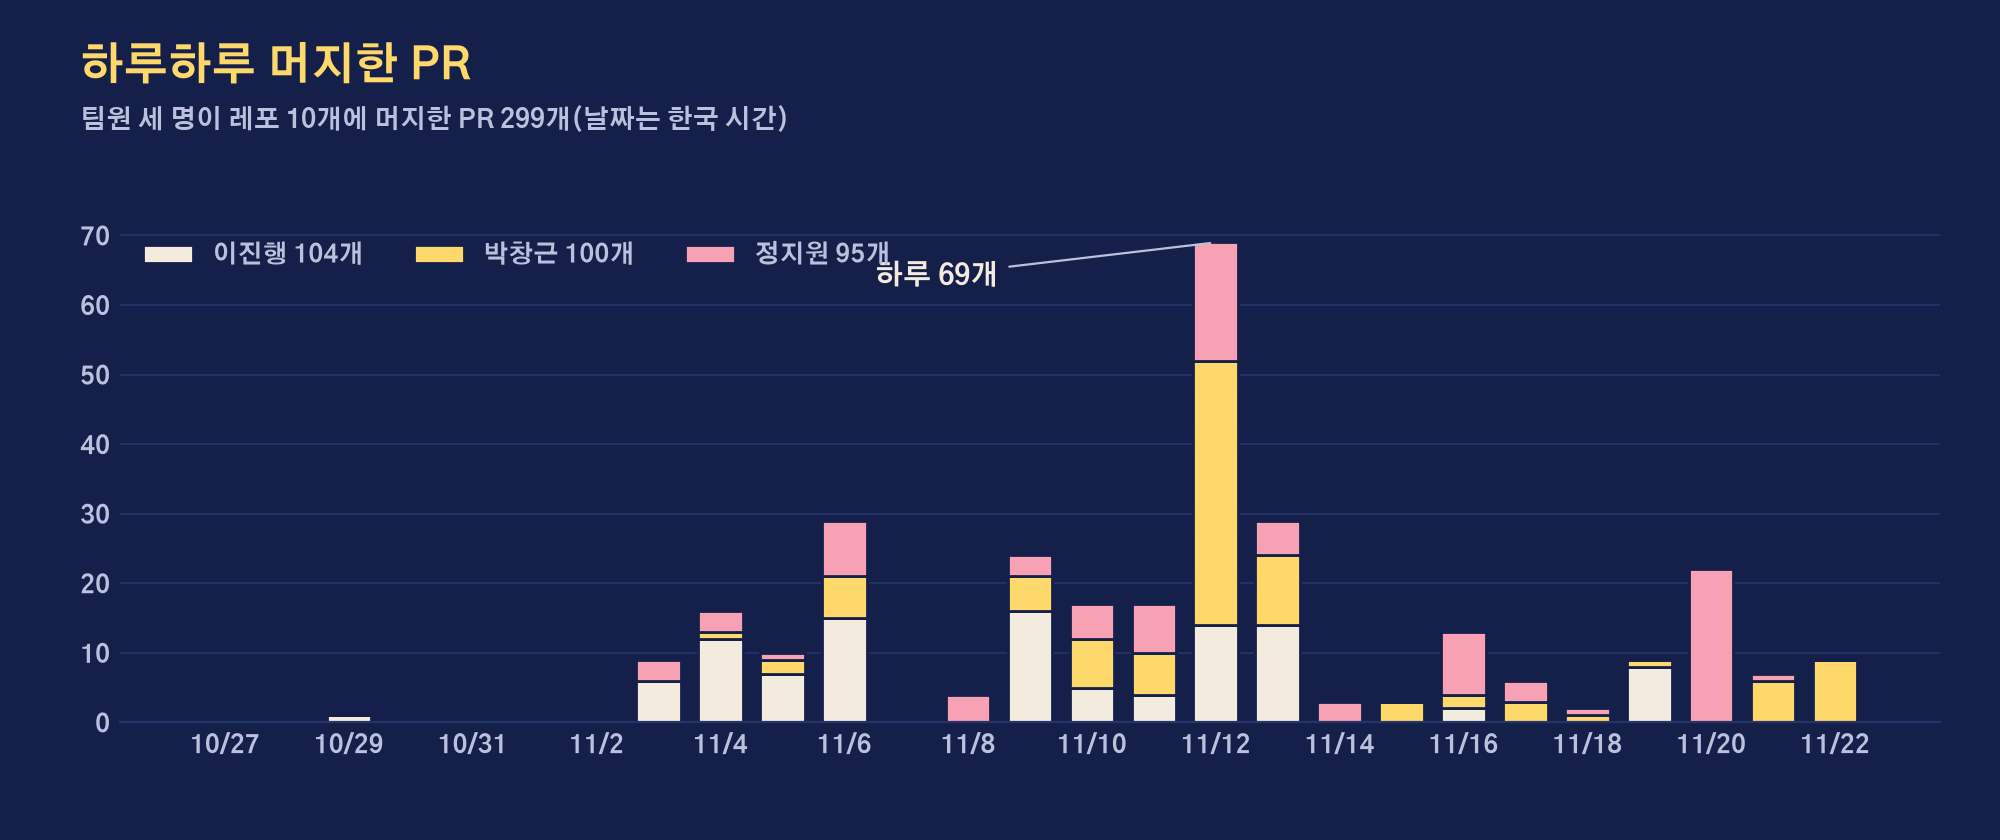
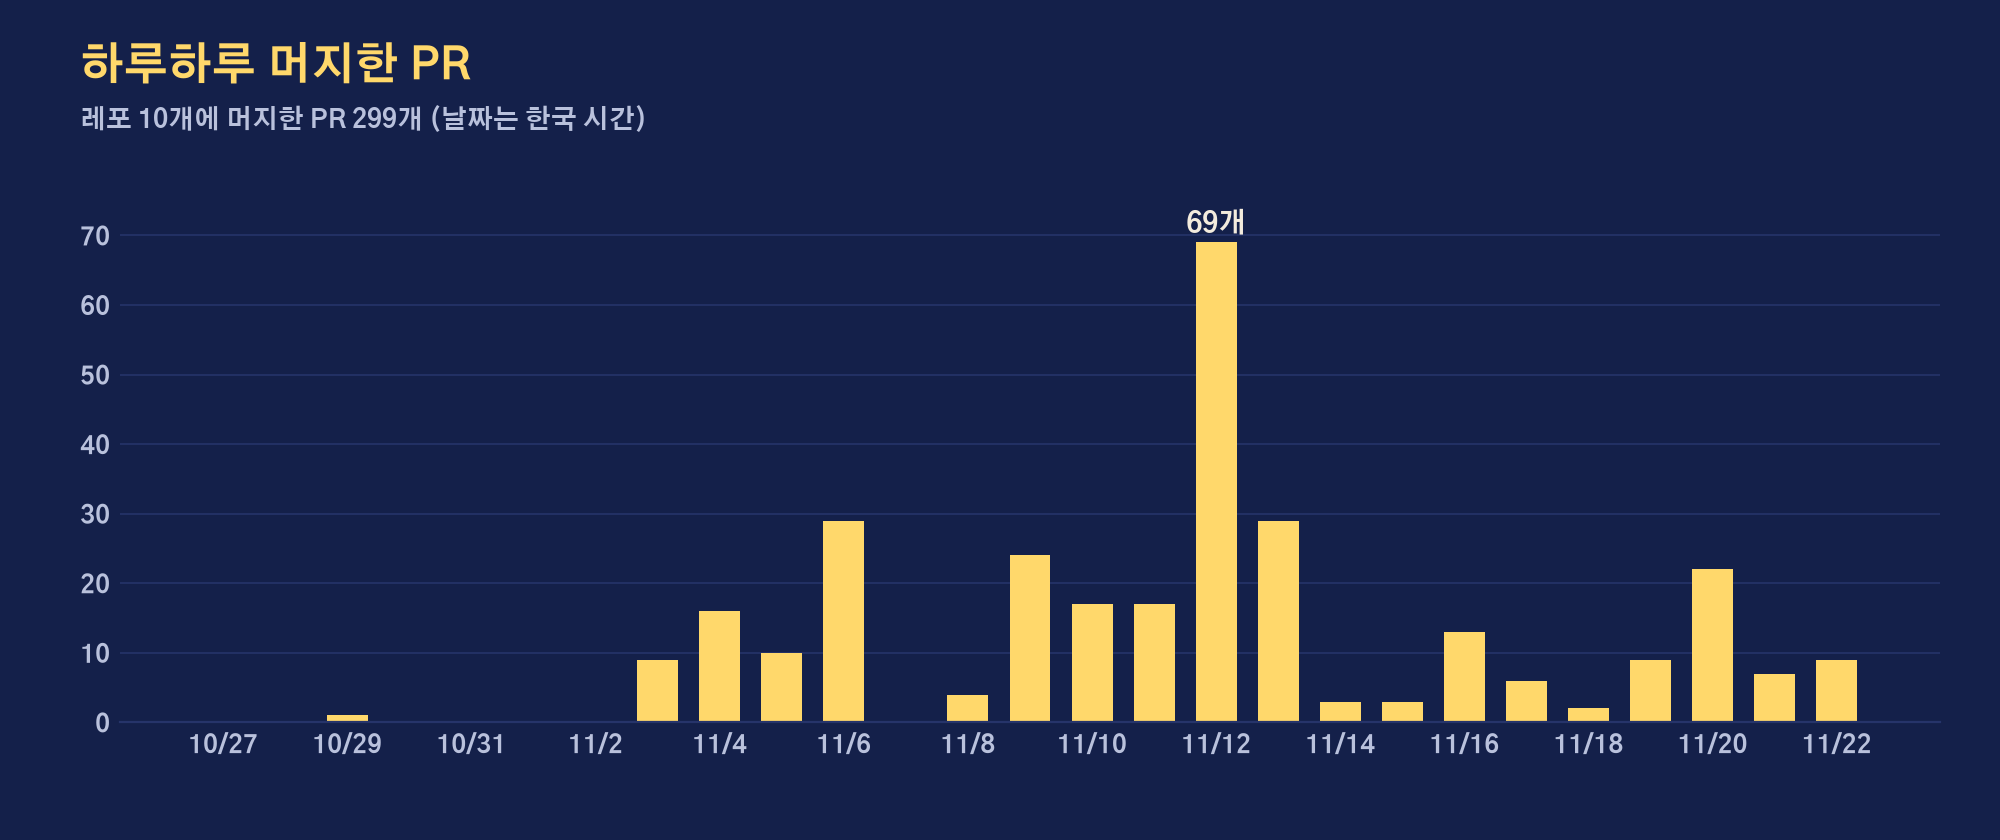
README: 사람별 PR 표 대신 파트별 모델 학습 시간·횟수 보여 주기

diff --git a/profile/README.md b/profile/README.md
@@ -6,7 +6,7 @@
   <p>📅 <b>개발 기간</b> : 2026.10.27 ~ 2026.11.20 &nbsp;·&nbsp; 👥 <b>팀 심청이</b></p>
 </div>
 
-<p align="center"><img src="https://raw.githubusercontent.com/fashion-agent-team/.github/main/profile/images/charts/1122-effort-hero.png" width="100%" alt="27일 동안 머지한 PR 299개, 커밋 811개, 브랜치 263개, 비교한 모델·방식 109개, 옷 모델 학습 65시간 이상, 테스트 578개"/></p>
+<p align="center"><img src="https://raw.githubusercontent.com/fashion-agent-team/.github/main/profile/images/charts/1122-effort-hero.png" width="100%" alt="27일 동안 젯슨 GPU 모델 학습 166시간 이상, 눈 화장 반복 학습 396판, 비교한 모델·방식 109가지, 머지한 PR 299개, 커밋 811개, 테스트 578개"/></p>
 
 ## 👥 누가 무엇을 했나요
 
@@ -450,6 +450,7 @@ flowchart LR
   <tr><td>옷 색</td><td>픽셀 규칙, 색 히스토그램 + MLP, 작은 CNN</td><td><b>작은 CNN(0.8MB)</b>: 색 계열 76.8%, 흰 옷 15% → 87%. 옷 모양을 봐서 배경색에 덜 속아요</td></tr>
   <tr><td>무늬</td><td>YOLO 분류, FashionSigLIP LoRA·분류 층만·입력 384, GPT low/high</td><td><b>LoRA + YOLO 섞기 + 애매할 때만 GPT</b>: 입은 옷 90.0%로 목표 달성</td></tr>
   <tr><td>얼굴 분할</td><td>BiSeNet R18 두 학습본·R34, SegFormer, FaRL, MediaPipe</td><td><b>BiSeNet ResNet34</b>: 유일하게 통계적으로 나아졌어요(p=0.019). SegFormer는 3.6배 크고 느리고, FaRL은 646MB라 탈락</td></tr>
+  <tr><td>눈 화장 좌우 비교</td><td>밝기 규칙, 작은 CNN, 넓은 망, ImageNet ResNet18·EfficientNet·ConvNeXt 등 젯슨 GPU로 <b>396판</b></td><td><b>서버 모델 + ResNet18 3개 앙상블</b>: 실사진 검출 70.7% → 78.6%, 잘못 알림 4.1%. 같은 평가 사진에서 조합을 뒤지면 점수가 부풀어서, 미리 정한 규칙(하나씩 점수 상위 3개)으로 골랐어요</td></tr>
   <tr><td>치아</td><td>모델 4, 이어 학습 3, LoRA 4, 색 규칙 4, GPT</td><td><b>직접 학습한 v4 + 6번 평균</b>: 깨끗한 이 잘못 알림 1.1%. 얼굴·치아 사진은 GPT로 보내지 않기로 해서 GPT는 탈락</td></tr>
   <tr><td>날씨 데이터</td><td>Open-Meteo, 기상청 단기예보, OpenWeatherMap (5개 도시 × 3번)</td><td><b>Open-Meteo</b>: 응답 0.9초(기상청 3.5초, 가장 느릴 때 15초)에 키 없이 써요. 안 되면 MET Norway로 넘어가요</td></tr>
 </table>
@@ -472,6 +473,7 @@ flowchart LR
 | 옷 색 | 3가지 방식 | 색 계열 45.3% → **76.8%** |
 | 입은 옷 실수(택·단추·뒤집힘) | 단추 모델 6판 (실제 사진으로 이어 학습) | 단추 79.7% → **93.7%** |
 | 화장 좌우 비교 | 약 35가지 방식 | 눈썹 길이 22% → **84%**, 멀쩡한 사진 잘못 알림 63% → **31%** |
+| 눈 화장 | 젯슨 GPU 396판 | 실사진 검출 약 10% → 50% → 61% → 72% → **78.6%** |
 | 치아 이물질 | v1 → v4, LoRA·이어 학습 7가지 | 합성 시험 87.2% → **91.2%**, 고춧가루 실사진 0.03 → **0.96** |
 
 자세한 표: [clothes-state 실험 비교표](https://github.com/fashion-agent-team/mcp-clothes-state/blob/develop/docs/lab.md) · [학습 기록](https://github.com/fashion-agent-team/mcp-clothes-state/blob/develop/docs/training-log.md) · [face-check 실험 비교표](https://github.com/fashion-agent-team/mcp-face-check/blob/develop/docs/lab.md)
@@ -489,16 +491,21 @@ flowchart LR
 
 ## 🔥 27일 동안 남긴 흔적
 
-> 기능 하나도 바로 `develop`에 넣지 않고 **브랜치 → PR → CI 테스트 → 리뷰 → 머지**를 거쳤어요. 그렇게 쌓인 PR이 299개예요.
+> 가장 오래 걸린 일은 **모델 학습**이었어요. 화장·옷장·날씨는 박창근, 옷 상태·치아는 정지원 파트에서 모델을 학습하고 비교했고, 앱 뼈대·gateway·agent는 이진행 파트에서 만들었어요.
 
-<p align="center"><img src="https://raw.githubusercontent.com/fashion-agent-team/.github/main/profile/images/charts/1122-effort-daily.png" width="100%" alt="날짜별로 팀원 세 명이 머지한 PR 수 누적 막대그래프"/></p>
+<p align="center"><img src="https://raw.githubusercontent.com/fashion-agent-team/.github/main/profile/images/charts/1122-effort-training.png" width="100%" alt="모델 학습에 들인 시간: 눈 화장 좌우 비교 101.6시간(젯슨 GPU, 396판), 옷 상태 모델 65시간, 얼굴 분할·좌우 비교 CNN 3.5시간, 치아 1.8시간"/></p>
+
+| 파트 | 모델 학습 시간 | 학습·비교한 횟수 |
+| --- | ---: | --- |
+| 박창근 파트 (화장·옷장·날씨) | **105시간 이상** | 눈 화장 젯슨 학습 **396판**, 화장 재는 방식 약 35가지, 같은 옷 찾기 사진 모델 12개, 날씨 출처 3개 |
+| 정지원 파트 (옷 상태·치아) | **66시간 이상** | 옷 상태 실험 **56가지**(얼룩·찢어짐 7판, 옷 종류 6판, 무늬 7단계, 입은 옷 실수 단추 6판 등), 치아 18가지 |
+
+기능 하나도 바로 `develop`에 넣지 않고 **브랜치 → PR → CI 테스트 → 리뷰 → 머지**를 거쳤어요.
+
+<p align="center"><img src="https://raw.githubusercontent.com/fashion-agent-team/.github/main/profile/images/charts/1122-effort-daily.png" width="100%" alt="날짜별 머지한 PR 수 막대그래프"/></p>
 <p align="center"><img src="https://raw.githubusercontent.com/fashion-agent-team/.github/main/profile/images/charts/1122-effort-repos.png" width="100%" alt="레포별 머지한 PR 수와 커밋 수"/></p>
 
-| | 이진행 | 박창근 | 정지원 | 팀 |
-| --- | ---: | ---: | ---: | ---: |
-| 머지한 PR | 104 | 100 | 95 | **299** |
-
-<sub>2026-11-22 기준 GitHub에서 센 값이에요. 커밋은 각 레포 `develop`(.github는 `main`), 학습 시간은 clothes-state 실험표에 시간이 적힌 학습만 더한 값이에요.</sub>
+<sub>2026-11-22 기준이에요. 학습 시간은 로그·실험표에 시간이 남은 것만 더했어요: 눈 화장은 젯슨 학습 로그(`loop.log` 시작 시각 ~ 판마다 `eval.json`)로 잰 287판의 합(멈춘 시간이 섞일 수 있음), 옷 상태는 [clothes-state 실험표](https://github.com/fashion-agent-team/mcp-clothes-state/blob/develop/docs/lab.md)의 합, 얼굴 분할·좌우 비교 CNN과 치아는 [face-check 실험표](https://github.com/fashion-agent-team/mcp-face-check/blob/develop/docs/lab.md)에 적힌 시간이에요. PR·커밋 수는 GitHub에서 셌고 커밋은 각 레포 `develop`(.github는 `main`) 기준이에요.</sub>
 
 ## 🚀 협업 방식
 
